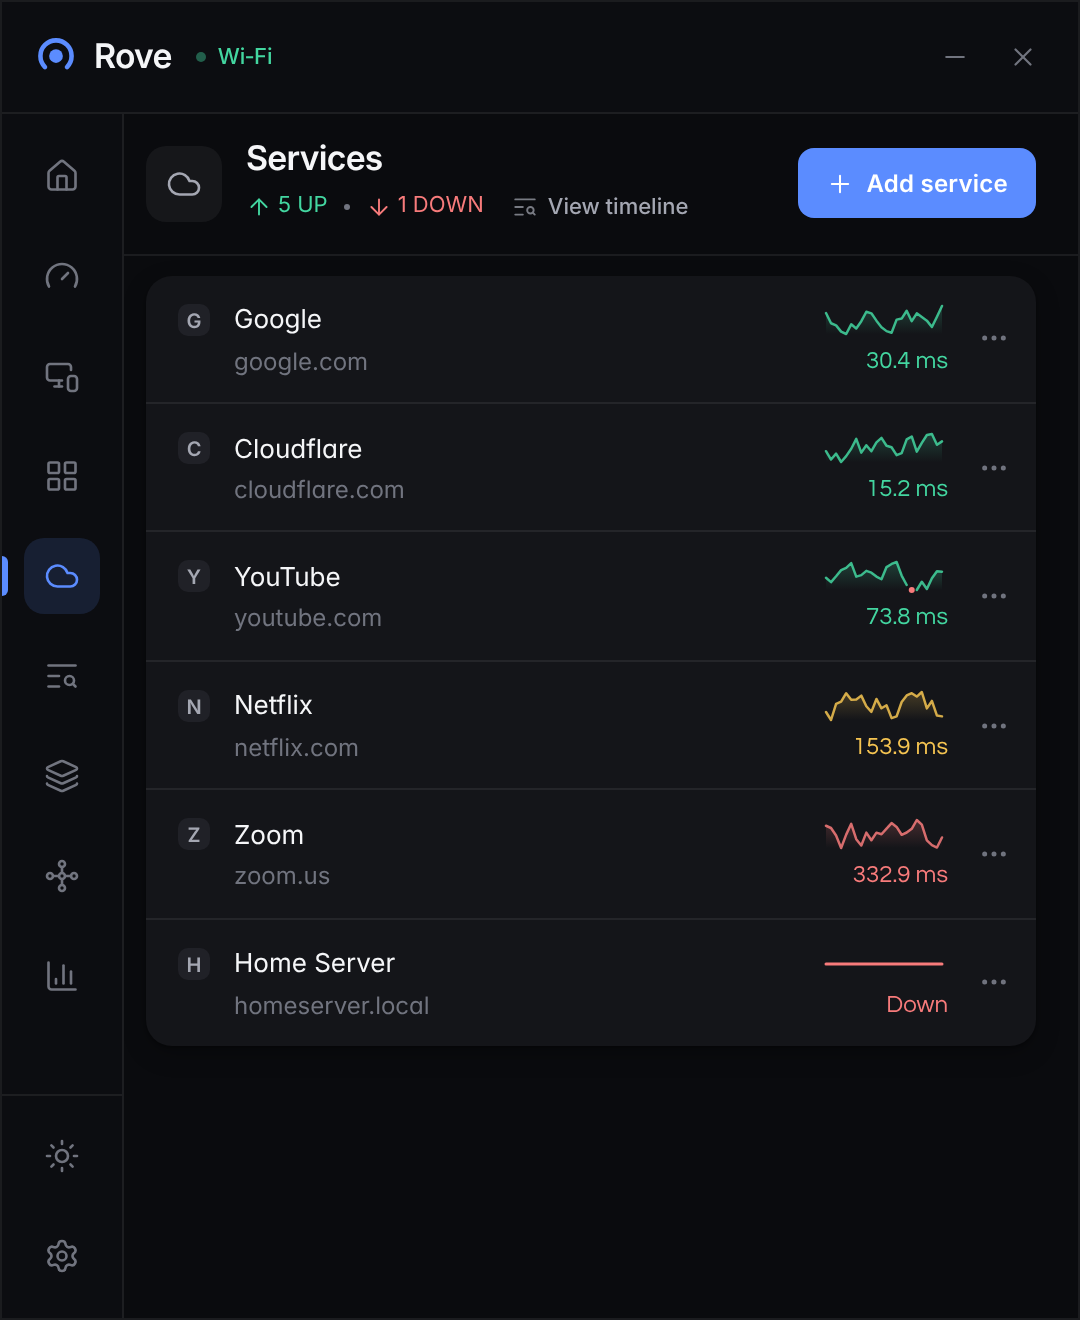
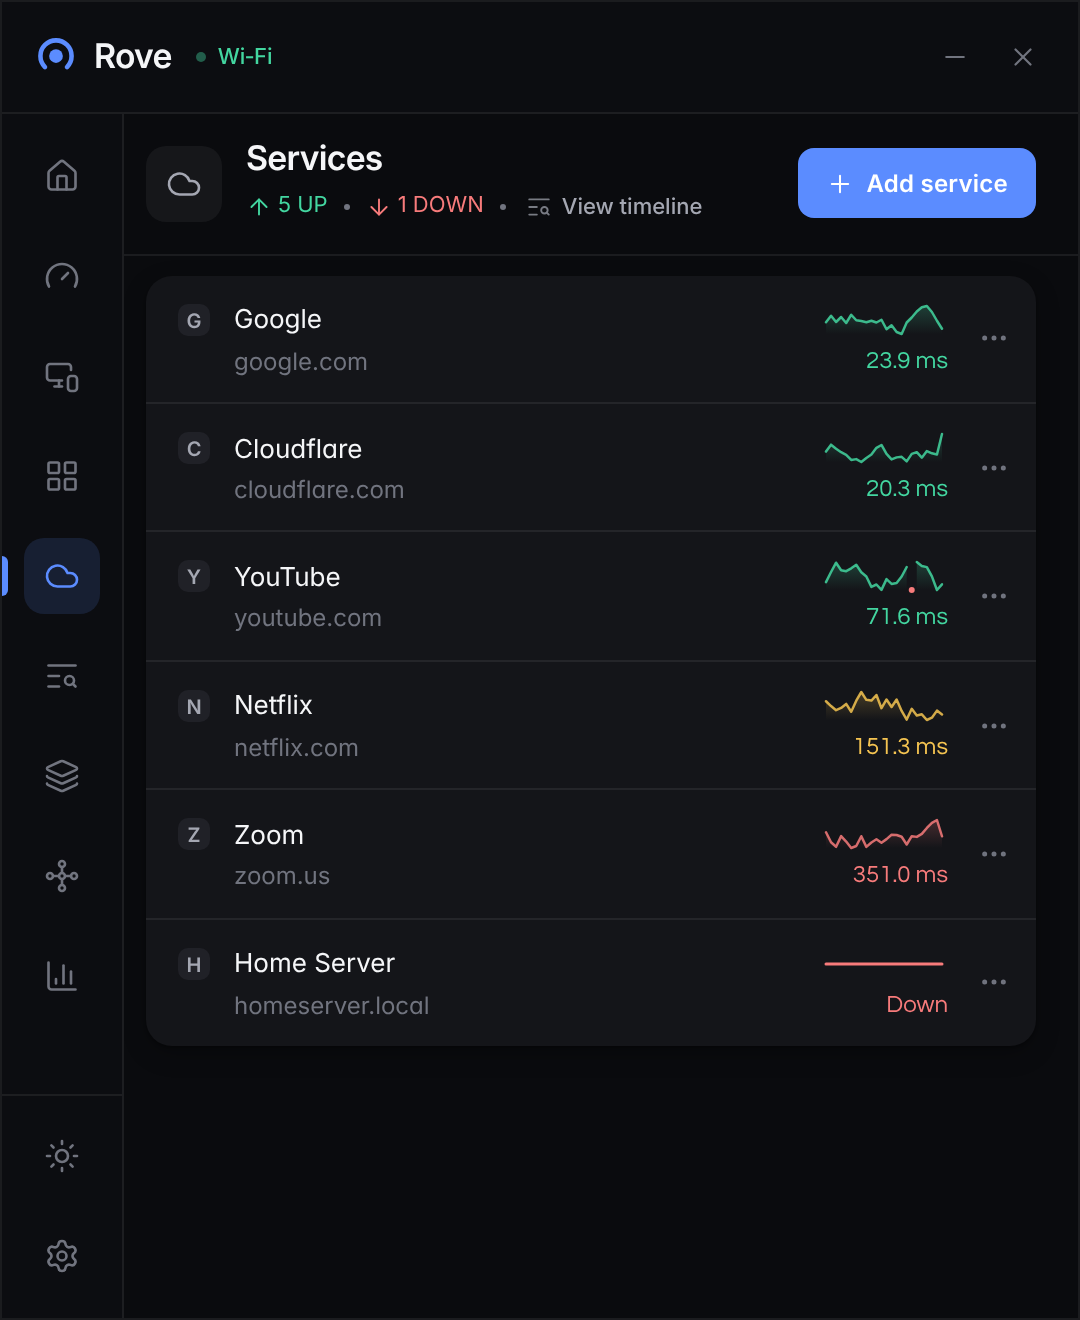
style(services): put the separator dot back before the timeline link
It was dropped so the subtitle could wrap cleanly on a phone-width
browser, where the dot ended up stranded at the start of its own line.
That only ever happens in the web demo — the app's window is 540px and
not resizable, so the subtitle has ~448px for ~250px of content and
never wraps. Trading the separator at the width the app actually ships
at, for a width it can't reach, was the wrong way round.

Restores the dot and the link's -6px left margin that was tuned to it.

Claude-Session: https://claude.ai/code/session_01PxEMvQ8fT7oZbe8YUvkBX5

diff --git a/src/components/diagnostics/ManageServicesPage.css b/src/components/diagnostics/ManageServicesPage.css
@@ -170,15 +170,16 @@
 /* Timeline link sitting in the header subtitle: the same quiet pill link as Speed's
    "All Results" (see .speed-history-link), down to the geometry and weight — only the
    glyph differs. The button reset carries the font family across but not the size, so
-   font-size: inherit is what keeps it at the subtitle's caption size. No separator dot
-   precedes it: the subtitle wraps the link to its own line on a narrow window, and a
-   dot left behind at a line's start reads as a bullet. The subtitle's gap plus the
-   link's own glyph carry the separation instead, so the pill keeps its full padding. */
+   font-size: inherit is what keeps it at the subtitle's caption size. Negative left
+   margin pulls the pill's padding back so it sits a natural distance from the dot.
+   The dot is a plain subtitle child, so a window narrow enough to wrap the link can
+   strand it at the start of a line, where it reads as a bullet — only the web demo's
+   phone widths get that narrow, and the app's own window never does. */
 .mgsvc-timeline-link {
   display: inline-flex;
   align-items: center;
   gap: 5px;
-  margin-left: -2px;
+  margin-left: -6px;
   padding: 2px 8px;
   border-radius: 999px;
   color: var(--text-secondary);

diff --git a/src/components/diagnostics/ManageServicesPage.tsx b/src/components/diagnostics/ManageServicesPage.tsx
@@ -6,6 +6,7 @@ import { ServiceIcon } from '@/components/ui/ServiceIcon'
 import { CloudIcon, EditIcon, EventsIcon, MoreIcon, PlusIcon, TrashIcon } from '@/components/ui/Icons'
 import { EmptyState } from '@/components/ui/EmptyState'
 import { Tooltip } from '@/components/ui/Tooltip'
+import { DotSeparator } from '@/components/ui/DotSeparator'
 import { serviceTally } from '@/components/diagnostics/ServiceTally'
 import { MAX_SAMPLES } from '@/components/diagnostics/service-latency'
 import { Sparkline } from '@/components/ui/Sparkline'
@@ -190,7 +191,12 @@ export function ManageServicesPage({
         title="Services"
         subtitle={
           <span className="mgsvc-subtitle">
-            {tally}
+            {tally && (
+              <>
+                {tally}
+                <DotSeparator />
+              </>
+            )}
             <button type="button" className="mgsvc-timeline-link" onClick={onTimeline}>
               <EventsIcon size={13} />
               <span className="mgsvc-timeline-link-text">View timeline</span>
